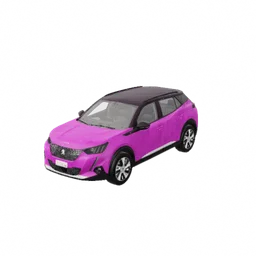
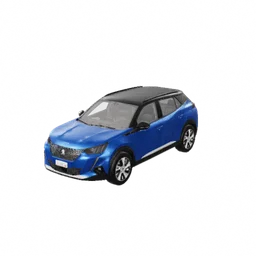
fix(catalogue): open products three-quarter so large ones fit, repaint the Peugeot 2008
Android: HD catalogue entries had no front yaw, so they opened head-on and
the framing fitted a 4.69 m car on its 1.9 m width; its length ran off both
screen edges as soon as the model turned. They now open at -30 degrees like
the mammoth and the rover, so the framing fits the turned footprint. Bundled
and museum models keep their framing.

Peugeot 2008: the source body and roof sampled a baked rainbow stripe
texture. The hosted copy drops it and uses plain Vertigo Blue paint with a
gloss black roof. It is registered under a new sha in assets-v1, hd-pack-v1,
assets/manifest.json and assets/hd-pack/android.json; the old blob is kept.
Web and Android thumbnails are regenerated, and the catalog notes the change
for the CC-BY-4.0 indicate-changes clause.

Refs #4560

diff --git a/samples/android-demo/src/main/java/io/github/sceneview/demo/demos/ModelViewerDemo.kt b/samples/android-demo/src/main/java/io/github/sceneview/demo/demos/ModelViewerDemo.kt
@@ -281,14 +281,22 @@ private val BUNDLED_VIEWER_MODELS = listOf(
 /**
  * A model that only exists in the HD pack: no bundled file, its card render as thumbnail
  * (`model_thumb_hd_<id with underscores>`) until the download lands.
+ *
+ * Catalogue products open three-quarter, as their cards show them, like the mammoth: the
+ * framing then fits the footprint of the TURNED box. Head-on, a 4.69 m car was framed on its
+ * 1.9 m width and its length ran off both screen edges as soon as it turned.
  */
 private fun hdOnly(id: String, title: String, @StringRes description: Int) = BundledViewerModel(
     assetPath = null,
     displayName = title,
     description = description,
+    frontYaw = CATALOGUE_FRONT_YAW,
     hdAssetId = id,
     thumbnailStem = "hd_" + id.replace('-', '_'),
 )
+
+/** The catalogue's opening turn, the mammoth's and the rover's (see [hdOnly]). */
+private const val CATALOGUE_FRONT_YAW = -30f
 
 /**
  * The Models sheet's "Museum & Space" shelf (2026-09-29): museum scans from the HD pack,
